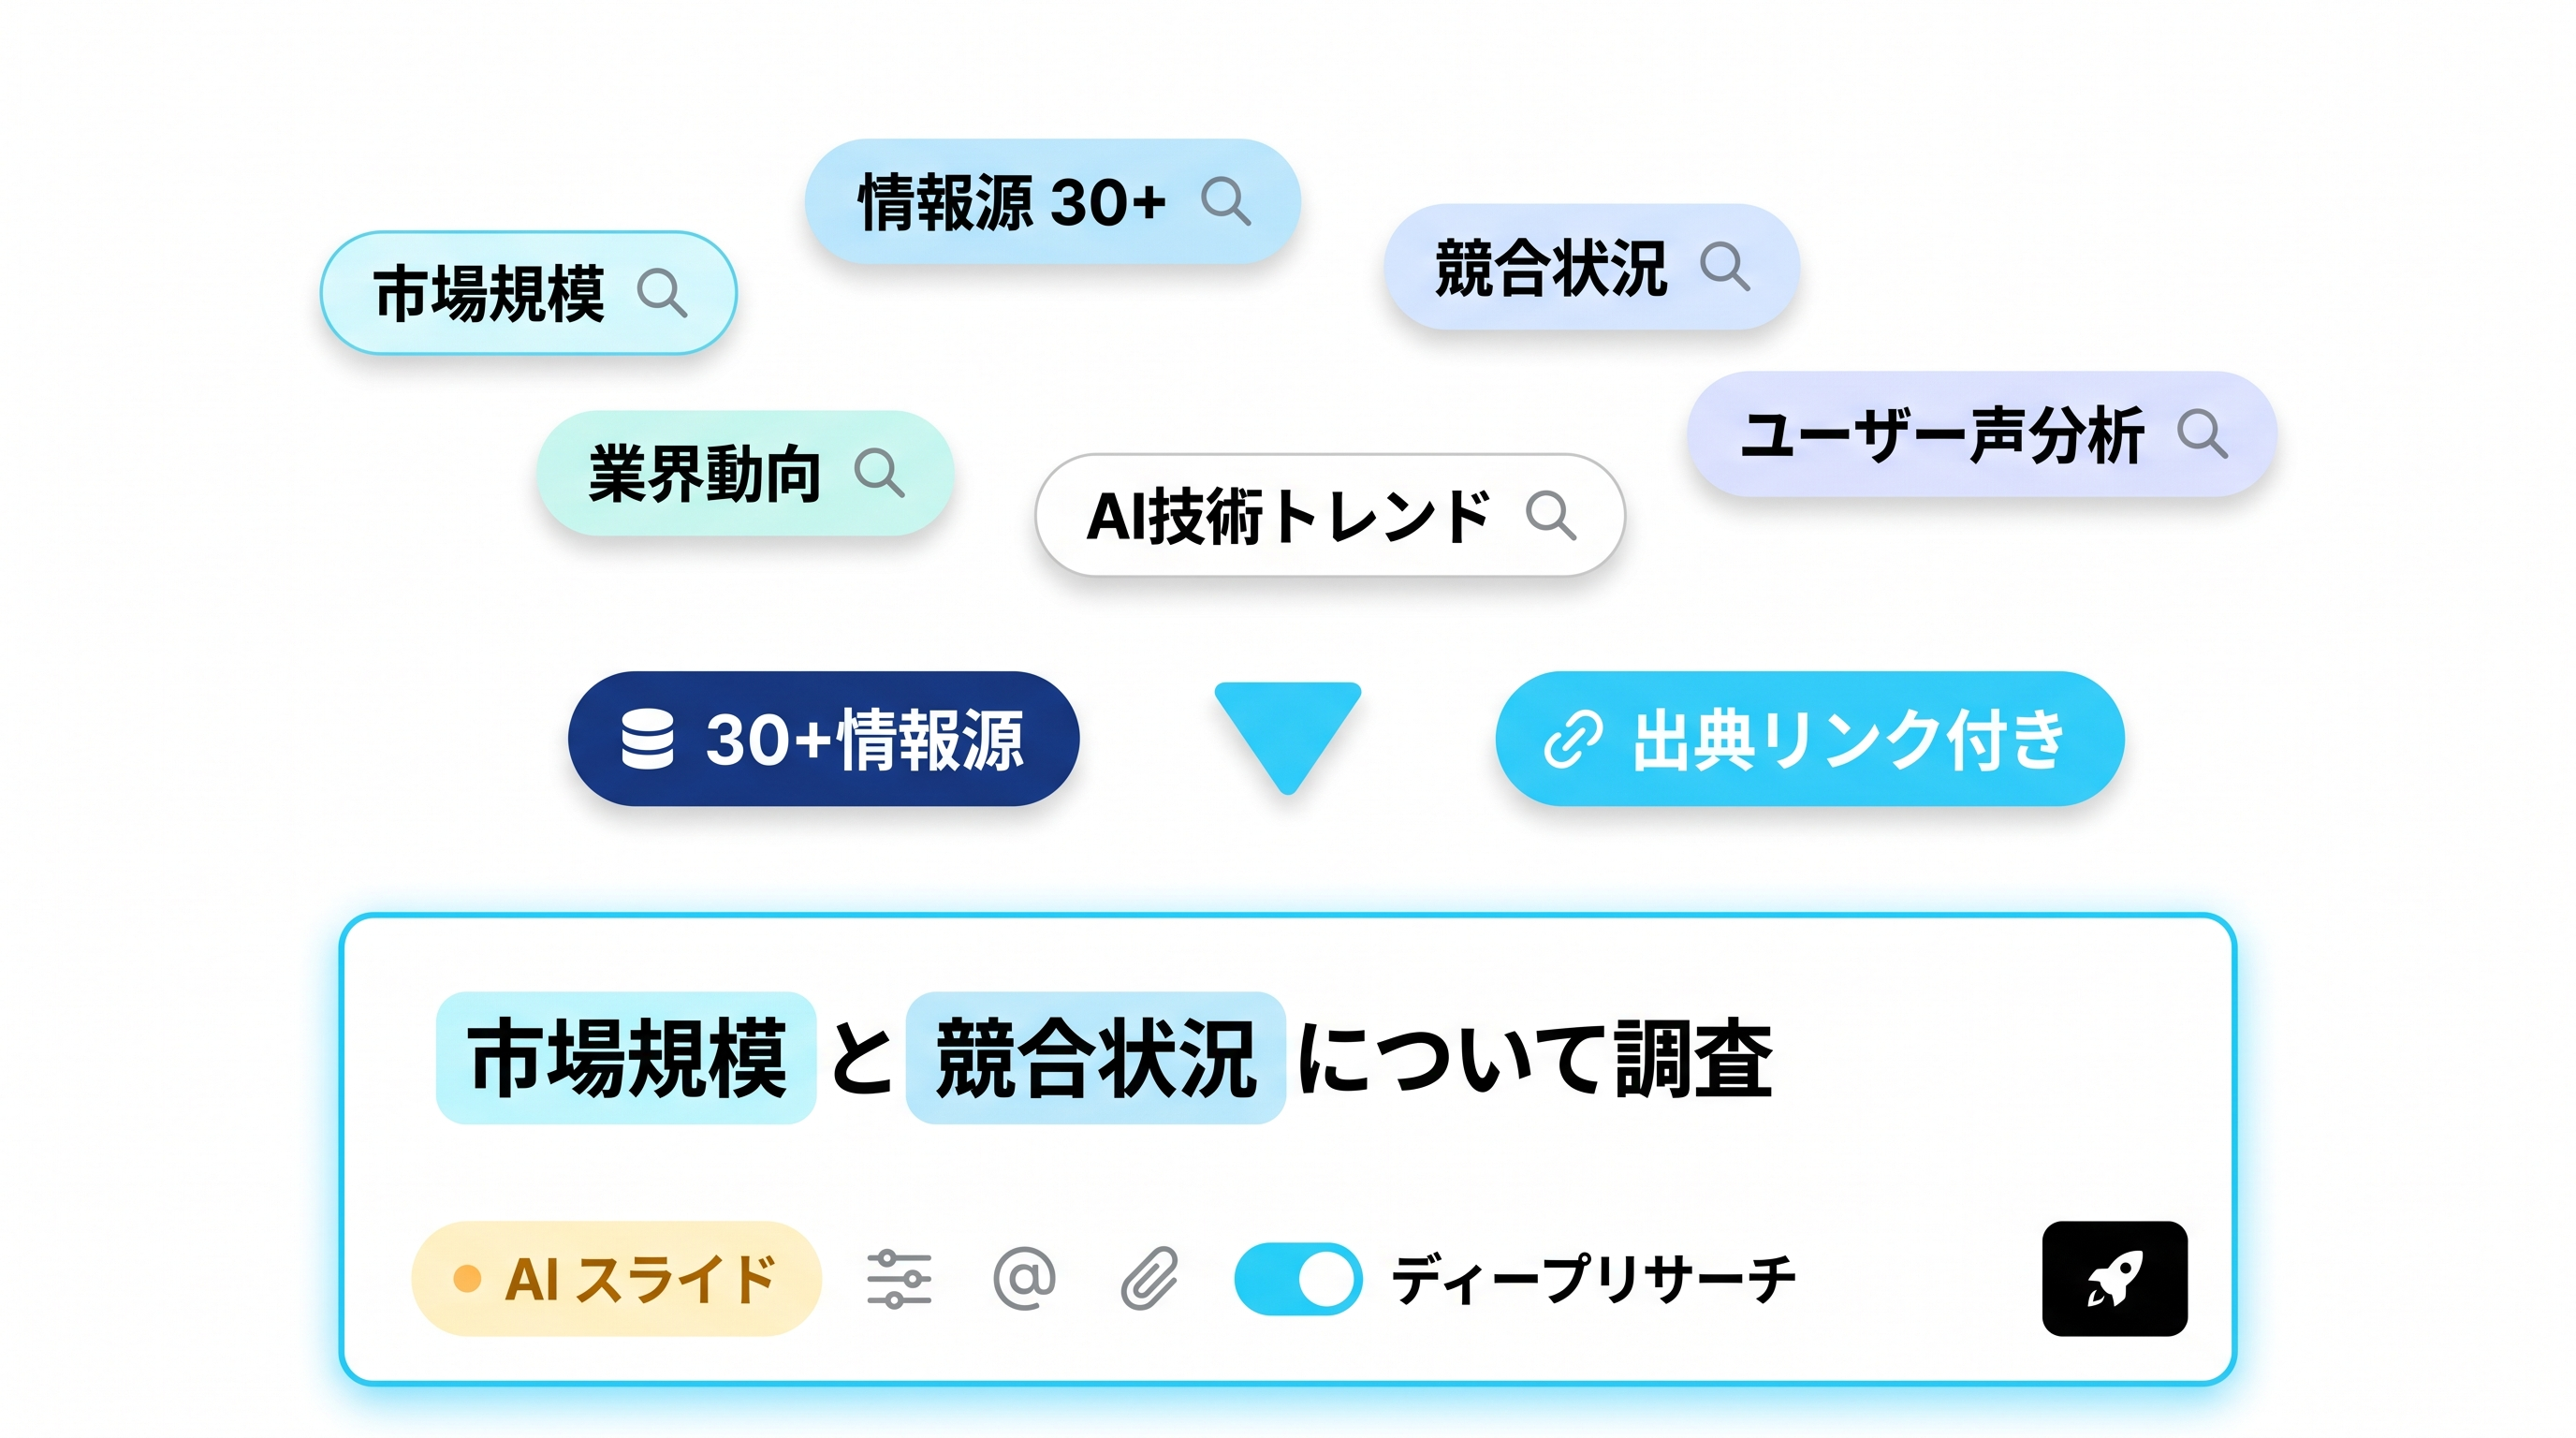
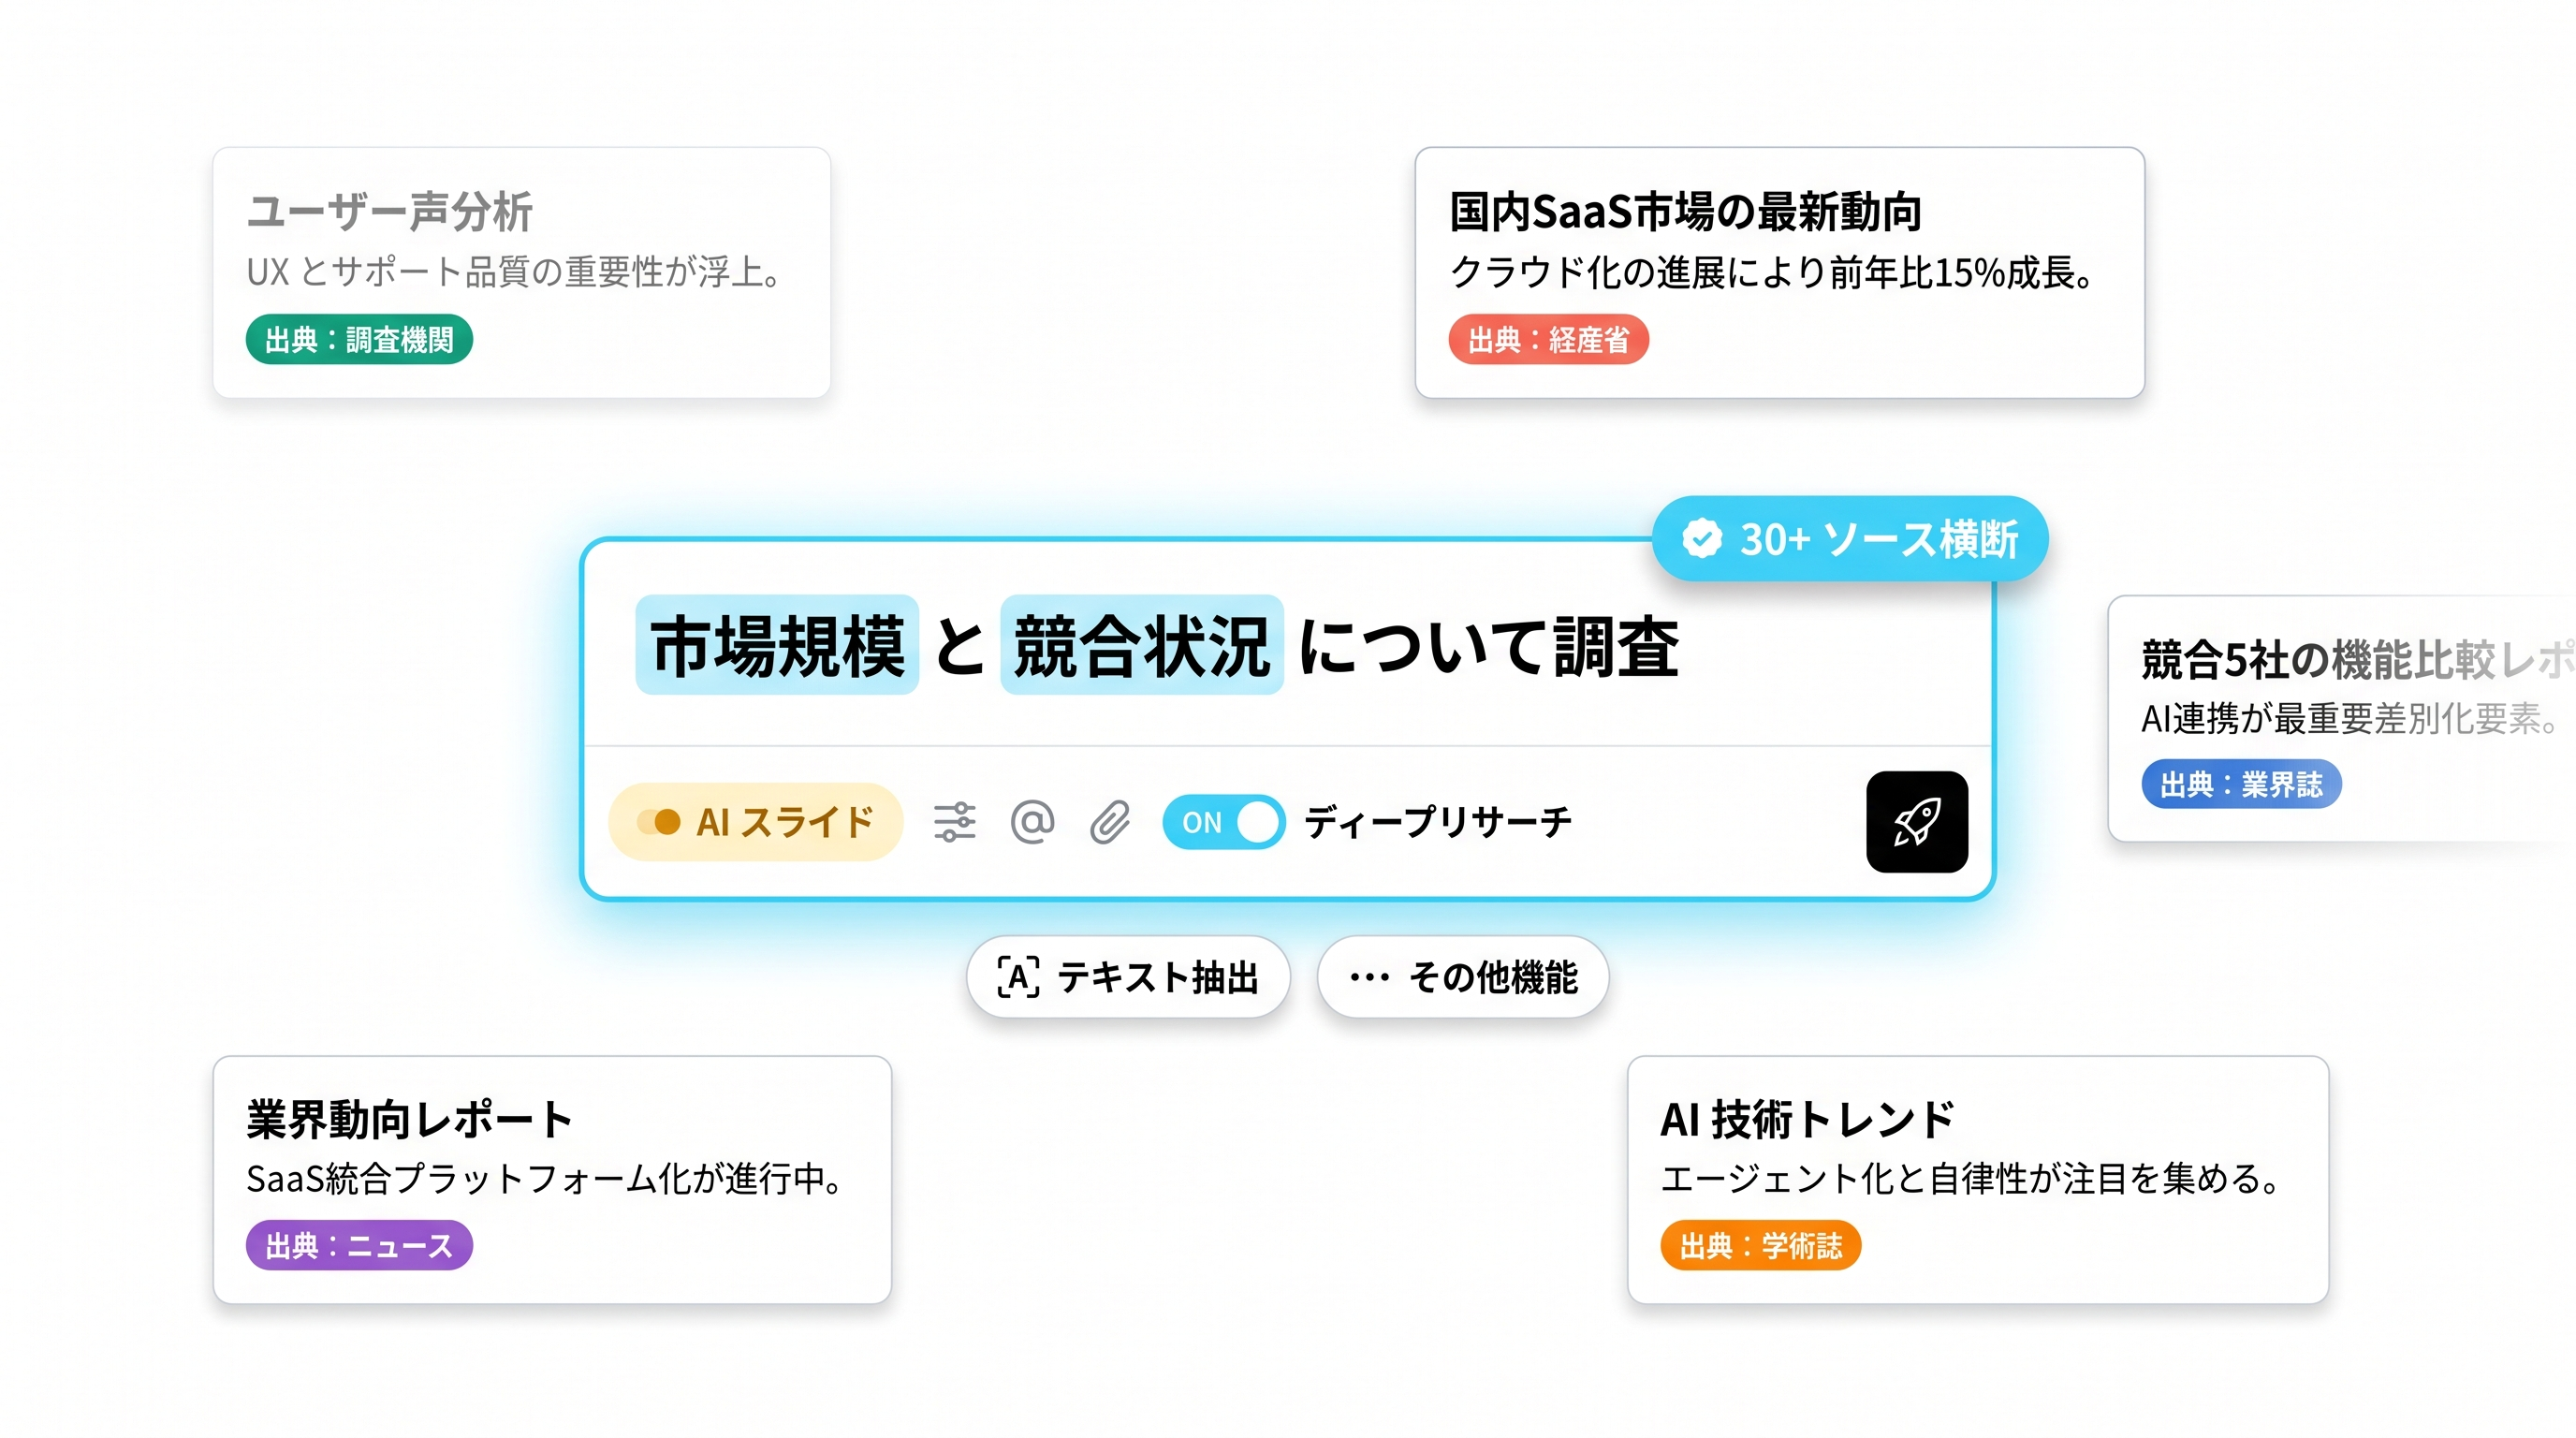
Update footer social links: X→GBaseHub, add YouTube, note→sparticle_gbase, LinkedIn trailing /

Changed region(s): [[0.0938, 0.0938, 1.0, 1.0]]

diff --git a/ai-slides.html b/ai-slides.html
@@ -1106,13 +1106,16 @@
                 <li><a href="https://www.sparticle.com/ja/recruit" target="_blank" rel="noopener">採用情報</a></li>
             </ul>
             <div class="footer-social">
-                <a href="https://x.com/sparticle_ai" target="_blank" rel="noopener" aria-label="X" title="X (Twitter)">
+                <a href="https://x.com/GBaseHub" target="_blank" rel="noopener" aria-label="X" title="X (Twitter)">
                     <svg viewBox="0 0 24 24" fill="currentColor"><path d="M18.244 2.25h3.308l-7.227 8.26 8.502 11.24H16.17l-5.214-6.817L4.99 21.75H1.68l7.73-8.835L1.254 2.25H8.08l4.713 6.231zm-1.161 17.52h1.833L7.084 4.126H5.117z"/></svg>
                 </a>
-                <a href="https://note.com/sparticle" target="_blank" rel="noopener" aria-label="note" title="note">
+                <a href="https://www.youtube.com/@sparticle_gbase" target="_blank" rel="noopener" aria-label="YouTube" title="YouTube">
+                    <svg viewBox="0 0 24 24" fill="currentColor"><path d="M23.498 6.186a3.016 3.016 0 0 0-2.122-2.136C19.505 3.545 12 3.545 12 3.545s-7.505 0-9.377.505A3.017 3.017 0 0 0 .502 6.186C0 8.07 0 12 0 12s0 3.93.502 5.814a3.016 3.016 0 0 0 2.122 2.136c1.871.505 9.376.505 9.376.505s7.505 0 9.377-.505a3.015 3.015 0 0 0 2.122-2.136C24 15.93 24 12 24 12s0-3.93-.502-5.814zM9.545 15.568V8.432L15.818 12l-6.273 3.568z"/></svg>
+                </a>
+                <a href="https://note.com/sparticle_gbase" target="_blank" rel="noopener" aria-label="note" title="note">
                     <svg viewBox="0 0 24 24" fill="currentColor"><path d="M0 .279c4.623 0 10.953-.235 15.498-.117 6.099.156 8.39 2.813 8.468 9.374.077 3.71 0 14.335 0 14.335h-6.598c0-9.296.04-10.83 0-13.759-.078-2.578-.814-3.807-2.795-4.041-2.097-.235-7.975-.04-7.975-.04v17.84H0Z"/></svg>
                 </a>
-                <a href="https://www.linkedin.com/company/sparticle-inc" target="_blank" rel="noopener" aria-label="LinkedIn" title="LinkedIn">
+                <a href="https://www.linkedin.com/company/sparticle-inc/" target="_blank" rel="noopener" aria-label="LinkedIn" title="LinkedIn">
                     <svg viewBox="0 0 24 24" fill="currentColor"><path d="M20.45 20.45h-3.55v-5.57c0-1.33-.02-3.04-1.85-3.04-1.85 0-2.13 1.45-2.13 2.94v5.67H9.36V9h3.41v1.56h.05c.48-.9 1.64-1.85 3.37-1.85 3.6 0 4.27 2.37 4.27 5.46v6.28zM5.34 7.43a2.06 2.06 0 1 1 0-4.13 2.06 2.06 0 0 1 0 4.13zm1.78 13.02H3.56V9h3.56v11.45zM22.22 0H1.77C.79 0 0 .77 0 1.72v20.55C0 23.23.79 24 1.77 24h20.45C23.2 24 24 23.23 24 22.28V1.72C24 .77 23.2 0 22.22 0z"/></svg>
                 </a>
             </div>